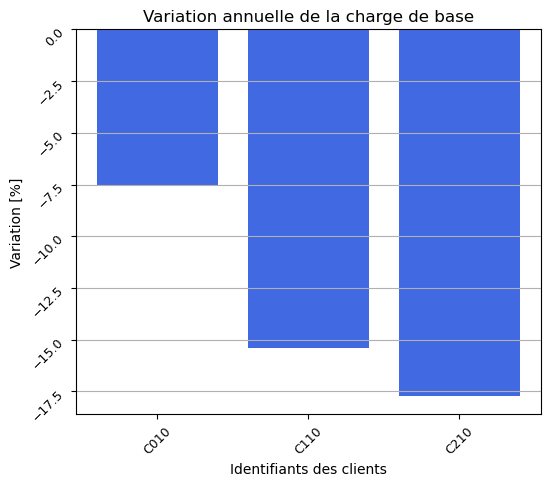
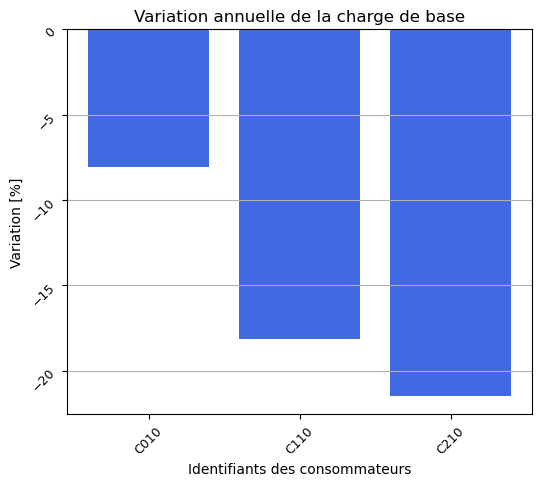
fixed variation

diff --git a/baseload_analysis.py b/baseload_analysis.py
@@ -28,11 +28,11 @@ LoadCurve_2023_dict, LoadCurve_2022_dict, Building_dict_2023, pv_2022_dict = p.g
 #%% get all typologies sorted for all provided year 
 
 # if True > normalized load, if False > absolute load 
-Typo_loads_2022, Typo_loads_2023, Typo_all_loads, Correspondance = p.sort_typologies(LoadCurve_2023_dict, LoadCurve_2022_dict, Building_dict_2023, pv_2022_dict, False)
+Typo_loads_2022, Typo_loads_2023, Typo_all_loads, Correspondance = p.sort_typologies(LoadCurve_2023_dict, LoadCurve_2022_dict, Building_dict_2023, pv_2022_dict, True)
 #%% creating a benchmark over available years
 
 # parameters to change
-Typology = "Ecole"
+Typology = "Commune"
 Period = "day"
 
 # smoothing calculations
@@ -437,9 +437,9 @@ plt.show()
 #%% Baseload avoided or avoidable costs
 """Attention : remove noralization at the beginning to obtain this result"""
 
-old_baseload = base_load/(y/100 + 1)
+#old_baseload = base_load/(y/100 + 1)
 
-energy_variation = base_load-old_baseload
+energy_variation = yf-yi
 #print(energy_variation)
 
 HP_tarif = 8.44 #c/kWh
